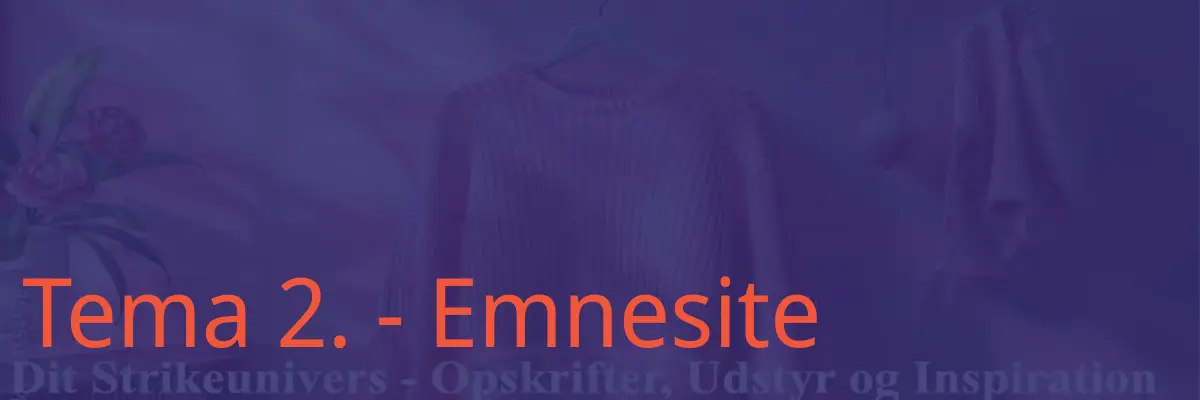
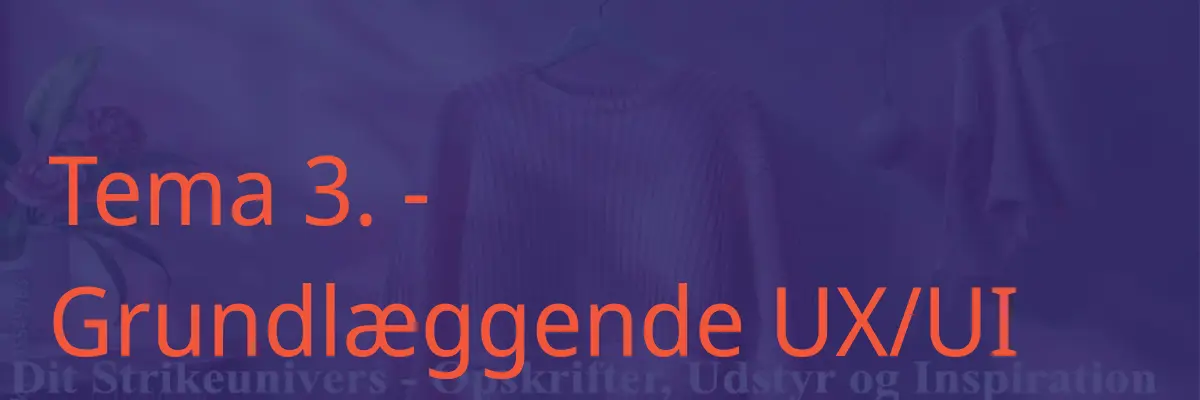
ny hero

Changed region(s): [[0.0, 0.69, 0.8633, 0.96], [0.0308, 0.39, 0.3083, 0.57], [0.3392, 0.48, 0.37, 0.51]]

diff --git a/portefolie.html b/portefolie.html
@@ -50,21 +50,21 @@
 
             <div class="border2">
                 <img src="img/portefolie/port1.webp" alt="billede1">
-                <h2>Tema 1 - Studiestartsprøven</h2>
+                <h2>Tema 2 - Grundlæggende web</h2>
                 <p>Studiestartsprøven og min designproces</p>
                 <a class="knap1" href="studiestart.html">Udforsk her!</a>
             </div>
 
             <div class="border2">
                 <img src="img/portefolie/port2.webp" alt="billede2">
-                <h2>Tema 2 - Emnesite</h2>
+                <h2>Tema 3 - Grundlæggende UX/UI</h2>
                 <p>En inspirerende platform dedikeret til strikkeentusiaster</p>
                 <a class="knap1" href="emnesite.html">Udforsk her!</a>
             </div>
 
             <div class="border2">
                 <img src="img/portefolie/port3.webp" alt="billede3">
-                <h2>Tema 3 - Animation</h2>
+                <h2>Tema 3 - Grundlæggende animation</h2>
                 <p>En interaktiv og legende animationsspil med aliens som tema</p>
                 <a class="knap1" href="animation.html">Udforsk her!</a>
             </div>
